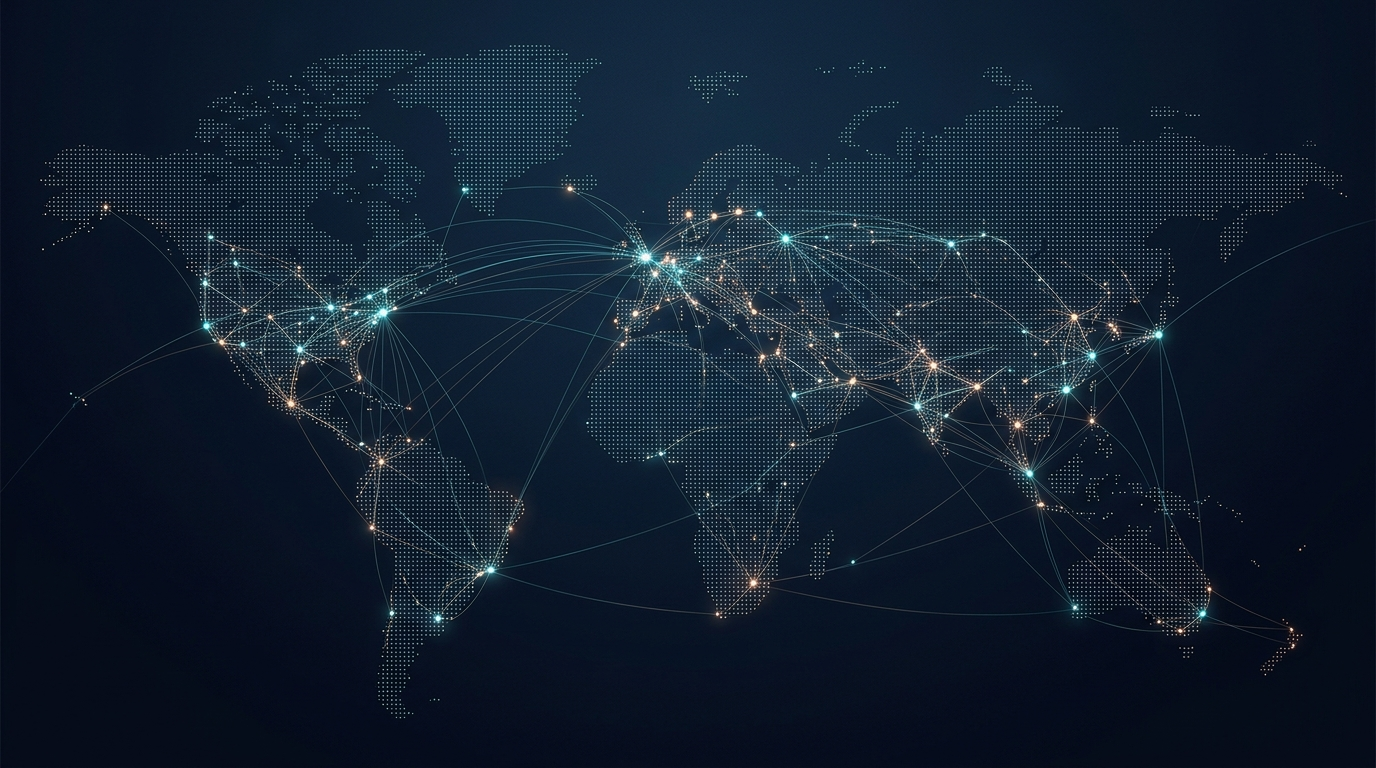
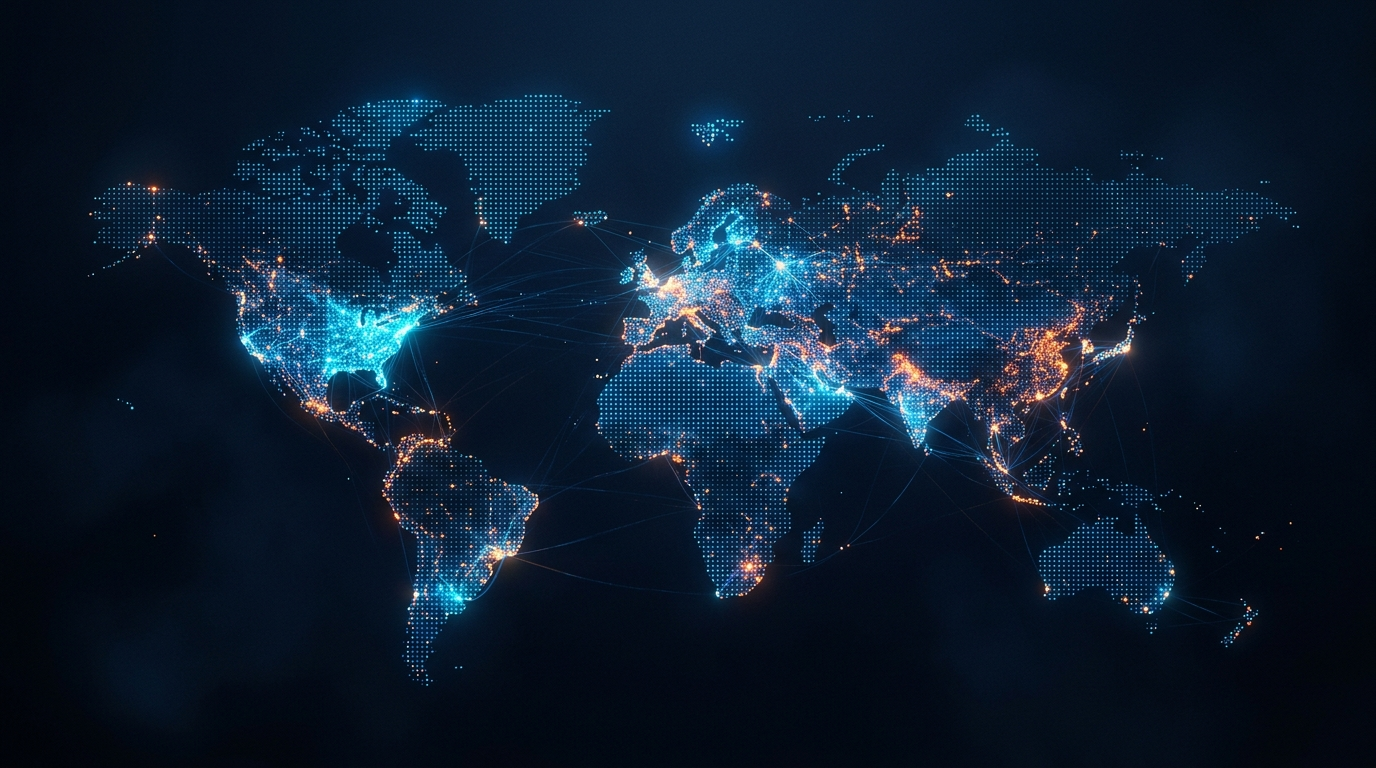
Phase 13: Added animated success marquee and interactive Global Reach map to homepage

Changed region(s): [[0.0312, 0.0625, 0.9688, 0.9062]]

diff --git a/index.html b/index.html
@@ -9,7 +9,7 @@
     <link rel="icon" type="image/png" sizes="32x32" href="favicon.png">
     <link rel="icon" type="image/png" sizes="16x16" href="favicon-16x16.png">
     <link rel="apple-touch-icon" sizes="180x180" href="apple-touch-icon.png">
-    <link rel="stylesheet" href="style.css?v=105.0">
+    <link rel="stylesheet" href="style.css?v=104.0">
     <link rel="stylesheet" href="https://cdnjs.cloudflare.com/ajax/libs/font-awesome/6.4.0/css/all.min.css">
     <link href="https://fonts.googleapis.com/css2?family=Inter:wght@300;400;500;600;700;800;900&family=Outfit:wght@300;400;500;600;700;800;900&display=swap" rel="stylesheet">
     <link rel="stylesheet" href="https://cdn.jsdelivr.net/npm/swiper@9/swiper-bundle.min.css">
@@ -637,7 +637,54 @@
             </section>
 
             <!-- 6. SUCCESS STORIES / TESTIMONIALS SECTION -->
-            <section class="stories-section" id="stories" style="padding: 85px 0; background: #F8FAFC; border-bottom: 1px solid #E2E8F0;">
+            
+        <!-- Global Reach Map Section -->
+        <section class="global-reach-section" style="padding: 100px 0; background: #0F172A; color: white; position: relative; overflow: hidden;">
+            <!-- Abstract map background -->
+            <div style="position: absolute; top: 0; left: 0; width: 100%; height: 100%; opacity: 0.15; background: url('images/global_map_bg.jpg') center/cover; mix-blend-mode: luminosity;"></div>
+            
+            <div class="container" style="position: relative; z-index: 2;">
+                <div style="text-align: center; max-width: 700px; margin: 0 auto 60px;">
+                    <div style="display: inline-flex; align-items: center; gap: 8px; background: rgba(248, 112, 52, 0.15); border: 1px solid rgba(248, 112, 52, 0.3); color: #FF9F1C; padding: 6px 18px; border-radius: 50px; font-weight: 700; font-size: 0.85rem; letter-spacing: 1px; text-transform: uppercase; margin-bottom: 16px;">
+                        <i class="fas fa-globe"></i> GLOBAL REACH
+                    </div>
+                    <h2 style="font-size: 2.6rem; font-weight: 800; color: white; margin-bottom: 16px; line-height: 1.2;">Unlocking Borders Worldwide</h2>
+                    <p style="font-size: 1.05rem; color: #94A3B8;">Precision-guided pathways to the world's most sought-after economies. We specialize in high-skill migration to top-tier destinations.</p>
+                </div>
+
+                <div style="display: grid; grid-template-columns: repeat(auto-fit, minmax(250px, 1fr)); gap: 30px;">
+                    <div class="premium-glass-card hover-glow" style="background: rgba(255, 255, 255, 0.03); border: 1px solid rgba(255, 255, 255, 0.08); padding: 35px; border-radius: 20px; text-align: center; backdrop-filter: blur(12px);">
+                        <div style="font-size: 3rem; margin-bottom: 15px;">🇨🇦</div>
+                        <h3 style="font-size: 1.4rem; font-weight: 800; color: white; margin-bottom: 8px;">Canada</h3>
+                        <p style="color: #38BDF8; font-weight: 700; font-size: 0.9rem; margin-bottom: 10px;">Express Entry & PNP</p>
+                        <div style="font-size: 0.85rem; color: #94A3B8;">Over 1,200 successful ITA selections secured since 2015.</div>
+                    </div>
+
+                    <div class="premium-glass-card hover-glow" style="background: rgba(255, 255, 255, 0.03); border: 1px solid rgba(255, 255, 255, 0.08); padding: 35px; border-radius: 20px; text-align: center; backdrop-filter: blur(12px);">
+                        <div style="font-size: 3rem; margin-bottom: 15px;">🇦🇺</div>
+                        <h3 style="font-size: 1.4rem; font-weight: 800; color: white; margin-bottom: 8px;">Australia</h3>
+                        <p style="color: #F87034; font-weight: 700; font-size: 0.9rem; margin-bottom: 10px;">Subclass 189/190</p>
+                        <div style="font-size: 0.85rem; color: #94A3B8;">Expertise in complex SkillSelect engineering & IT profiles.</div>
+                    </div>
+
+                    <div class="premium-glass-card hover-glow" style="background: rgba(255, 255, 255, 0.03); border: 1px solid rgba(255, 255, 255, 0.08); padding: 35px; border-radius: 20px; text-align: center; backdrop-filter: blur(12px);">
+                        <div style="font-size: 3rem; margin-bottom: 15px;">🇩🇪</div>
+                        <h3 style="font-size: 1.4rem; font-weight: 800; color: white; margin-bottom: 8px;">Germany</h3>
+                        <p style="color: #10B981; font-weight: 700; font-size: 0.9rem; margin-bottom: 10px;">Chancenkarte 2026</p>
+                        <div style="font-size: 0.85rem; color: #94A3B8;">Pioneering the new Opportunity Card route for tech talent.</div>
+                    </div>
+
+                    <div class="premium-glass-card hover-glow" style="background: rgba(255, 255, 255, 0.03); border: 1px solid rgba(255, 255, 255, 0.08); padding: 35px; border-radius: 20px; text-align: center; backdrop-filter: blur(12px);">
+                        <div style="font-size: 3rem; margin-bottom: 15px;">🇬🇧</div>
+                        <h3 style="font-size: 1.4rem; font-weight: 800; color: white; margin-bottom: 8px;">United Kingdom</h3>
+                        <p style="color: #A78BFA; font-weight: 700; font-size: 0.9rem; margin-bottom: 10px;">Skilled Worker Visa</p>
+                        <div style="font-size: 0.85rem; color: #94A3B8;">Specialized healthcare, finance, and IT sector placements.</div>
+                    </div>
+                </div>
+            </div>
+        </section>
+
+        <section class="stories-section" id="stories" style="padding: 85px 0; background: #F8FAFC; border-bottom: 1px solid #E2E8F0;">
                 <div class="container" style="max-width: 1240px;">
                     <div class="section-header" style="text-align: center; max-width: 750px; margin: 0 auto 50px;">
                         <div class="section-icon" style="background: rgba(7,36,168,0.1); color: var(--primary);">

diff --git a/style.css b/style.css
@@ -4135,3 +4135,49 @@ section {
     background: #FFFFFF;
     box-shadow: 0 0 0 4px rgba(248, 112, 52, 0.1);
 }
+
+/* Animated Success Marquee */
+.premium-marquee-section {
+    background: #0F172A;
+    color: white;
+    padding: 15px 0;
+    overflow: hidden;
+    position: relative;
+    border-bottom: 2px solid rgba(248, 112, 52, 0.4);
+}
+.marquee-container {
+    width: 100%;
+    overflow: hidden;
+}
+.marquee-track {
+    display: flex;
+    width: max-content;
+    animation: scrollMarquee 30s linear infinite;
+}
+.marquee-item {
+    padding: 0 40px;
+    font-size: 0.95rem;
+    font-weight: 700;
+    display: flex;
+    align-items: center;
+    gap: 12px;
+    white-space: nowrap;
+    border-right: 1px solid rgba(255, 255, 255, 0.1);
+}
+@keyframes scrollMarquee {
+    0% { transform: translateX(0); }
+    100% { transform: translateX(-50%); }
+}
+.marquee-track:hover {
+    animation-play-state: paused;
+}
+
+/* Global Reach Hover Glow */
+.hover-glow {
+    transition: all 0.4s ease;
+}
+.hover-glow:hover {
+    transform: translateY(-8px);
+    box-shadow: 0 20px 40px rgba(0, 0, 0, 0.4), 0 0 20px rgba(248, 112, 52, 0.15);
+    border-color: rgba(248, 112, 52, 0.3) !important;
+}

diff --git a/countries/australia.html b/countries/australia.html
@@ -10,7 +10,7 @@
     <link rel="icon" type="image/png" sizes="32x32" href="../favicon.png">
     <link rel="icon" type="image/png" sizes="16x16" href="../favicon-16x16.png">
     <link rel="apple-touch-icon" sizes="180x180" href="../apple-touch-icon.png">
-    <link rel="stylesheet" href="../style.css?v=105.0">
+    <link rel="stylesheet" href="../style.css?v=104.0">
     <link rel="stylesheet" href="https://cdnjs.cloudflare.com/ajax/libs/font-awesome/6.4.0/css/all.min.css">
     <link href="https://fonts.googleapis.com/css2?family=Outfit:wght@300;400;500;600;700;800;900&amp;family=Plus+Jakarta+Sans:wght@300;400;500;600;700;800&amp;display=swap" rel="stylesheet">
     

diff --git a/countries/canada.html b/countries/canada.html
@@ -10,7 +10,7 @@
     <link rel="icon" type="image/png" sizes="32x32" href="../favicon.png">
     <link rel="icon" type="image/png" sizes="16x16" href="../favicon-16x16.png">
     <link rel="apple-touch-icon" sizes="180x180" href="../apple-touch-icon.png">
-    <link rel="stylesheet" href="../style.css?v=105.0">
+    <link rel="stylesheet" href="../style.css?v=104.0">
     <link rel="stylesheet" href="https://cdnjs.cloudflare.com/ajax/libs/font-awesome/6.4.0/css/all.min.css">
     <link href="https://fonts.googleapis.com/css2?family=Outfit:wght@300;400;500;600;700;800;900&amp;family=Plus+Jakarta+Sans:wght@300;400;500;600;700;800&amp;display=swap" rel="stylesheet">
     

diff --git a/countries/germany.html b/countries/germany.html
@@ -10,7 +10,7 @@
     <link rel="icon" type="image/png" sizes="32x32" href="../favicon.png">
     <link rel="icon" type="image/png" sizes="16x16" href="../favicon-16x16.png">
     <link rel="apple-touch-icon" sizes="180x180" href="../apple-touch-icon.png">
-    <link rel="stylesheet" href="../style.css?v=105.0">
+    <link rel="stylesheet" href="../style.css?v=104.0">
     <link rel="stylesheet" href="https://cdnjs.cloudflare.com/ajax/libs/font-awesome/6.4.0/css/all.min.css">
     <link href="https://fonts.googleapis.com/css2?family=Outfit:wght@300;400;500;600;700;800;900&amp;family=Plus+Jakarta+Sans:wght@300;400;500;600;700;800&amp;display=swap" rel="stylesheet">
     

diff --git a/countries/ireland.html b/countries/ireland.html
@@ -10,7 +10,7 @@
     <link rel="icon" type="image/png" sizes="32x32" href="../favicon.png">
     <link rel="icon" type="image/png" sizes="16x16" href="../favicon-16x16.png">
     <link rel="apple-touch-icon" sizes="180x180" href="../apple-touch-icon.png">
-    <link rel="stylesheet" href="../style.css?v=105.0">
+    <link rel="stylesheet" href="../style.css?v=104.0">
     <link rel="stylesheet" href="https://cdnjs.cloudflare.com/ajax/libs/font-awesome/6.4.0/css/all.min.css">
     <link href="https://fonts.googleapis.com/css2?family=Outfit:wght@300;400;500;600;700;800;900&amp;family=Plus+Jakarta+Sans:wght@300;400;500;600;700;800&amp;display=swap" rel="stylesheet">
     

diff --git a/countries/newzealand.html b/countries/newzealand.html
@@ -10,7 +10,7 @@
     <link rel="icon" type="image/png" sizes="32x32" href="../favicon.png">
     <link rel="icon" type="image/png" sizes="16x16" href="../favicon-16x16.png">
     <link rel="apple-touch-icon" sizes="180x180" href="../apple-touch-icon.png">
-    <link rel="stylesheet" href="../style.css?v=105.0">
+    <link rel="stylesheet" href="../style.css?v=104.0">
     <link rel="stylesheet" href="https://cdnjs.cloudflare.com/ajax/libs/font-awesome/6.4.0/css/all.min.css">
     <link href="https://fonts.googleapis.com/css2?family=Outfit:wght@300;400;500;600;700;800;900&amp;family=Plus+Jakarta+Sans:wght@300;400;500;600;700;800&amp;display=swap" rel="stylesheet">
     

diff --git a/countries/russia.html b/countries/russia.html
@@ -11,7 +11,7 @@
     <link rel="icon" type="image/png" sizes="32x32" href="../favicon.png">
     <link rel="icon" type="image/png" sizes="16x16" href="../favicon-16x16.png">
     <link rel="apple-touch-icon" sizes="180x180" href="../apple-touch-icon.png">
-    <link rel="stylesheet" href="../style.css?v=105.0">
+    <link rel="stylesheet" href="../style.css?v=104.0">
     <link rel="stylesheet" href="https://cdnjs.cloudflare.com/ajax/libs/font-awesome/6.4.0/css/all.min.css">
     <link href="https://fonts.googleapis.com/css2?family=Outfit:wght@300;400;500;600;700;800;900&amp;family=Plus+Jakarta+Sans:wght@300;400;500;600;700;800&amp;display=swap" rel="stylesheet">
     

diff --git a/countries/singapore.html b/countries/singapore.html
@@ -10,7 +10,7 @@
     <link rel="icon" type="image/png" sizes="32x32" href="../favicon.png">
     <link rel="icon" type="image/png" sizes="16x16" href="../favicon-16x16.png">
     <link rel="apple-touch-icon" sizes="180x180" href="../apple-touch-icon.png">
-    <link rel="stylesheet" href="../style.css?v=105.0">
+    <link rel="stylesheet" href="../style.css?v=104.0">
     <link rel="stylesheet" href="https://cdnjs.cloudflare.com/ajax/libs/font-awesome/6.4.0/css/all.min.css">
     <link href="https://fonts.googleapis.com/css2?family=Outfit:wght@300;400;500;600;700;800;900&amp;family=Plus+Jakarta+Sans:wght@300;400;500;600;700;800&amp;display=swap" rel="stylesheet">
     

diff --git a/countries/uk.html b/countries/uk.html
@@ -10,7 +10,7 @@
     <link rel="icon" type="image/png" sizes="32x32" href="../favicon.png">
     <link rel="icon" type="image/png" sizes="16x16" href="../favicon-16x16.png">
     <link rel="apple-touch-icon" sizes="180x180" href="../apple-touch-icon.png">
-    <link rel="stylesheet" href="../style.css?v=105.0">
+    <link rel="stylesheet" href="../style.css?v=104.0">
     <link rel="stylesheet" href="https://cdnjs.cloudflare.com/ajax/libs/font-awesome/6.4.0/css/all.min.css">
     <link href="https://fonts.googleapis.com/css2?family=Outfit:wght@300;400;500;600;700;800;900&amp;family=Plus+Jakarta+Sans:wght@300;400;500;600;700;800&amp;display=swap" rel="stylesheet">
     

diff --git a/countries/ukraine.html b/countries/ukraine.html
@@ -11,7 +11,7 @@
     <link rel="icon" type="image/png" sizes="32x32" href="../favicon.png">
     <link rel="icon" type="image/png" sizes="16x16" href="../favicon-16x16.png">
     <link rel="apple-touch-icon" sizes="180x180" href="../apple-touch-icon.png">
-    <link rel="stylesheet" href="../style.css?v=105.0">
+    <link rel="stylesheet" href="../style.css?v=104.0">
     <link rel="stylesheet" href="https://cdnjs.cloudflare.com/ajax/libs/font-awesome/6.4.0/css/all.min.css">
     <link href="https://fonts.googleapis.com/css2?family=Outfit:wght@300;400;500;600;700;800;900&amp;family=Plus+Jakarta+Sans:wght@300;400;500;600;700;800&amp;display=swap" rel="stylesheet">
     
